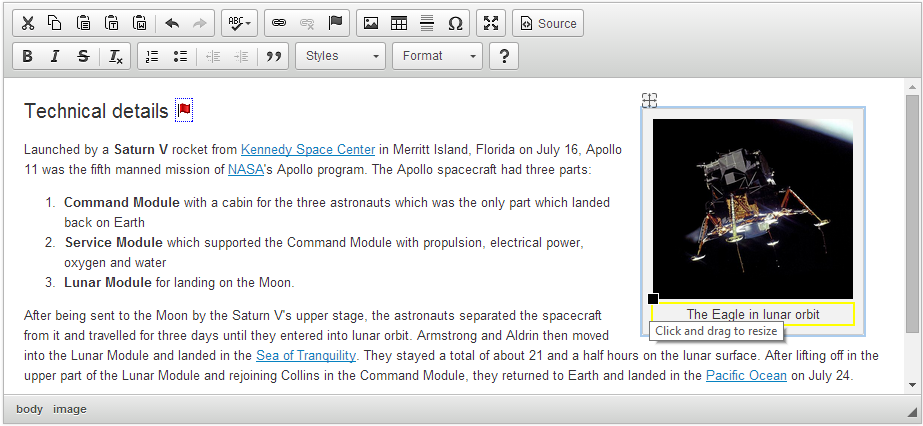
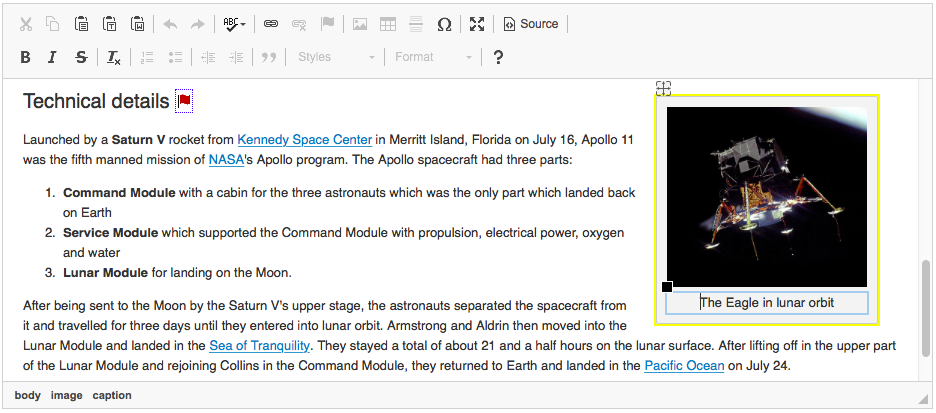
Captioned Image article updated with CKEditor 4.6 information.

diff --git a/guides/dev/features/captionedimage/README.md b/guides/dev/features/captionedimage/README.md
@@ -19,7 +19,7 @@ The optional [Enhanced Image](http://ckeditor.com/addon/image2) plugin introduce
 
 Below you can see a captioned image inserted into the editor content. When you hover it with your mouse, the editable areas (the image and its caption) become outlined. The resizing and positioning handles along with their tooltips will appear, too.
 
-{@img captionedimage_01.png}
+{@img captionedimage_01.png Captioned image}
 
 ## File Browser Integration
 
@@ -27,7 +27,7 @@ The Enhanced Image plugin can be [integrated with a file browser](#!/guide/dev_f
 
 Below you can see the plugin's Image Properties dialog window with the file browser integrated. The Browse Server button as well as the Upload tab will appear.
 
-{@img captionedimage_02.png}
+{@img captionedimage_02.png File manager integrated with Enhanced Image dialog}
 
 ## Image Alignment and Classes
 
@@ -58,6 +58,16 @@ Do remember, though, that you need to define the CSS rules for these classes in 
 * For [inline editor](#!/guide/dev_inline) the styles can be defined directly with `<style> ... <style>` or `<link href="..." rel="stylesheet">`, i.e. within the `<head>` section of the page.
 
 See the following [showcase](http://ckeditor.com/tmp/4.4.0/widget-styles.html) of captioned image styling and alignment done through classes.
+
+## Making Alternative Text Mandatory
+
+Since CKEditor 4.6 it is possible to make setting alternative text for captioned images obligatory for the users. This helps increase image [accessibility](#!/guide/dev_a11y) and is required by several accessibility standards.
+
+To make alternative text mandatory, set the CKEDITOR.config.image2_altRequired configuration option:
+
+    config.image2_altRequired = true;
+
+{@img captionedimage_03.png Alternative text required by the Enhanced Image dialog}
 
 ## Captioned Image Demo 
 
